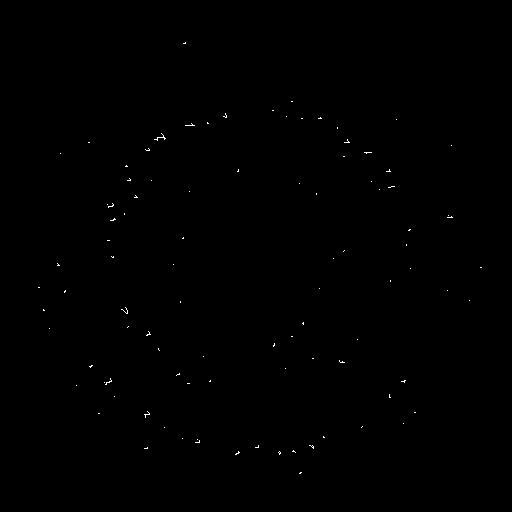
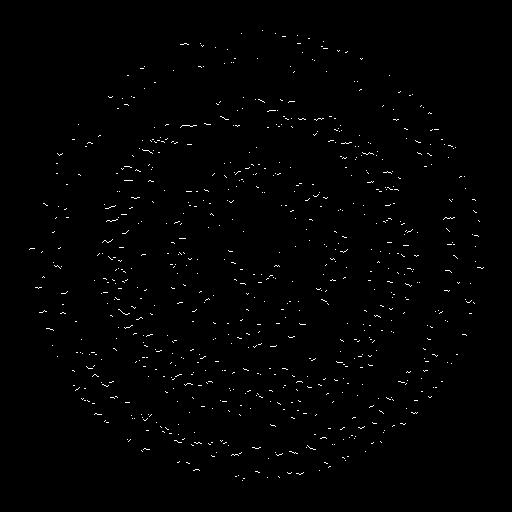
lil beautify

diff --git a/main.py b/main.py
@@ -617,7 +617,7 @@ def stones():
     a = cv2.imread('images/stones/stones.jpg')
     b = cv2.addWeighted(a, 0.7, circles, 1, 0.0)
 
-    cv2.imwrite('images/stones/rgb-final.jpg', b)
+    cv2.imwrite('images/stones/rgb-final-' + str(count) + '.jpg', b)
 
     image.save_image()
 
@@ -628,8 +628,8 @@ def stones_2():
     image.update_image(image.new_image, '-thed')
     m = image.new_image
 
-    kernel1 = np.ones((1, 6), 'uint8')  # x, 1 - vertical; 1, x - horizontal
-    kernel2 = np.ones((1, 7), 'uint8')  # x, 1 - vertical; 1, x - horizontal
+    kernel1 = np.ones((6, 1), 'uint8')  # x, 1 - vertical; 1, x - horizontal
+    kernel2 = np.ones((7, 1), 'uint8')  # x, 1 - vertical; 1, x - horizontal
     # kernel3 = np.ones((1, 1), 'uint8')
     pix_eros1 = cv2.erode(m, kernel1, iterations=1)
     image.update_image(pix_eros1, '-erosed-' + str(kernel1.shape[0]))
@@ -700,7 +700,7 @@ def stones_2():
     a = cv2.imread('images/stones/stones.jpg')
     b = cv2.addWeighted(a, 0.7, circles, 1, 0.0)
 
-    cv2.imwrite('images/stones/rgb-final-horizontal.jpg', b)
+    cv2.imwrite('images/stones/rgb-final-vertical-' + str(count) + '.jpg', b)
 
     image.save_image()
 
@@ -779,5 +779,5 @@ if __name__ == '__main__':
     # for image in images:
     #     lab_mrt(image)
     # -------------------------------------------
-    stones()
-    # stones_2()
+    # stones()
+    stones_2()
